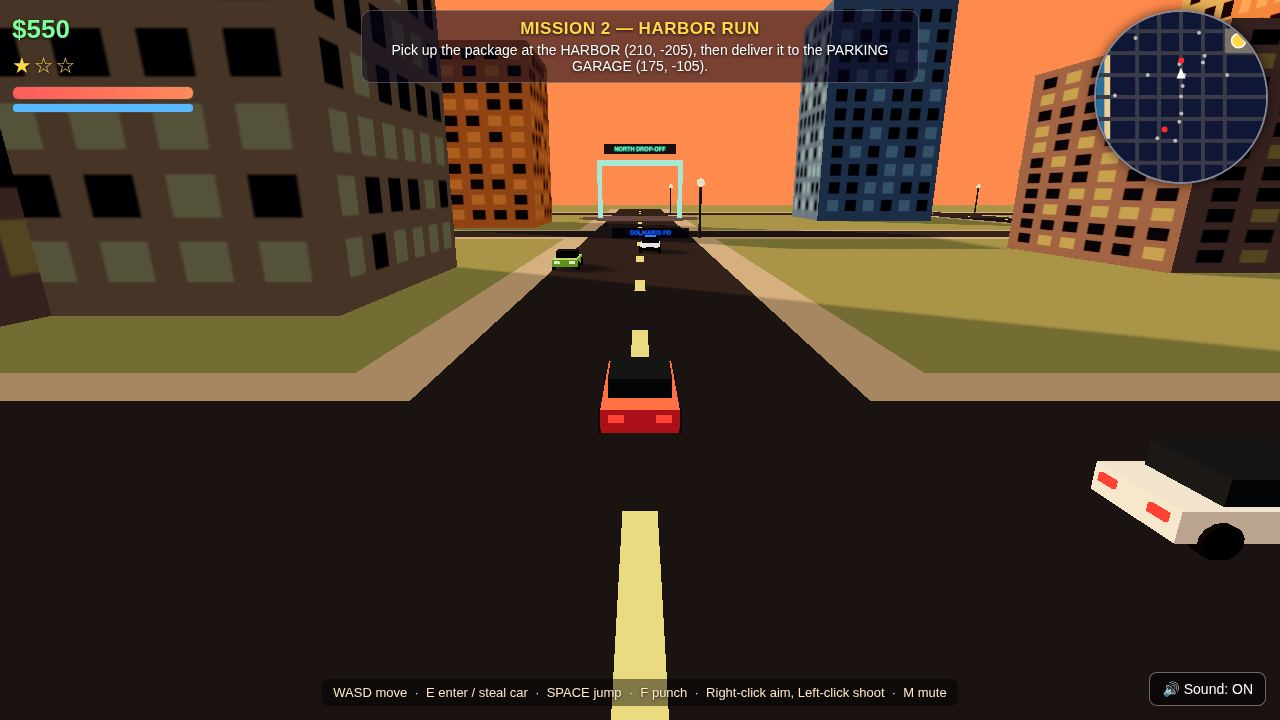
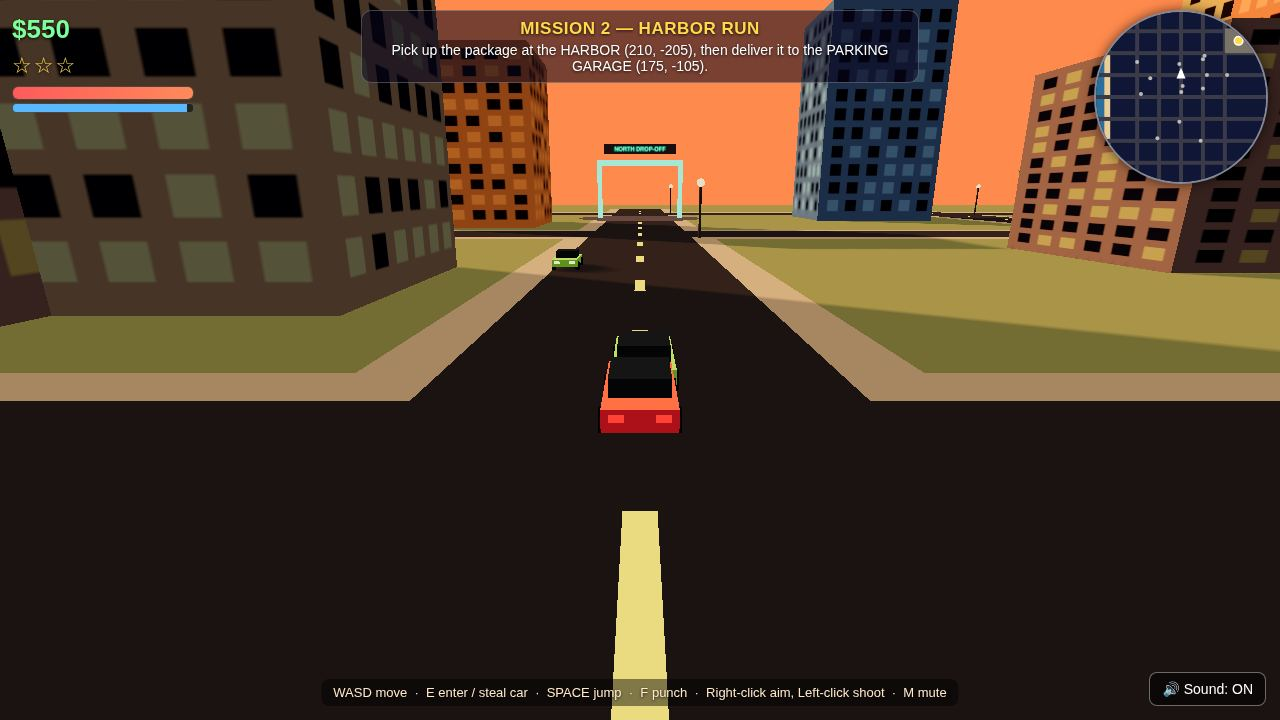
Aim camera: level torso ray + elevation to shoot heli; aimOverride hook

diff --git a/game/main.js b/game/main.js
@@ -506,10 +506,13 @@ const playerGroup = new THREE.Group();
 }
 // camera orbit state
 const cam = { yaw: Math.PI, pitch: 0.32, dist: 9, targetYaw: Math.PI };
+// aim elevation (radians, 0 = level, up to ~77 deg up) — drag vertically while aiming
+let aimElev = 0;
 
 // ---------------------------------------------------------------- input
 const keys = {};
 let mouseDownL = false, mouseDownR = false, dragging = false, lastMX = 0, lastMY = 0;
+let aimOverride = false; // set only via the __SOL.aim test hook
 window.addEventListener('keydown', (e) => {
   keys[e.code] = true;
   if (e.code === 'KeyM') AudioSys.setMuted(!AudioSys.muted);
@@ -531,7 +534,8 @@ window.addEventListener('mouseup', (e) => {
 window.addEventListener('mousemove', (e) => {
   if (!dragging) return;
   cam.yaw -= (e.clientX - lastMX) * 0.005;
-  cam.pitch = clamp(cam.pitch + (e.clientY - lastMY) * 0.004, 0.05, 1.1);
+  if (mouseDownR) aimElev = clamp(aimElev - (e.clientY - lastMY) * 0.004, -0.1, 1.35);
+  else cam.pitch = clamp(cam.pitch + (e.clientY - lastMY) * 0.004, 0.05, 1.1);
   lastMX = e.clientX; lastMY = e.clientY;
 });
 canvas.addEventListener('contextmenu', (e) => e.preventDefault());
@@ -1045,7 +1049,7 @@ function updateHeli(dt) {
   // hover above the player, slight lag + bob
   const hx = lerp(g.position.x, player.x + Math.sin(t * 0.5) * 6, dt * 0.9);
   const hz = lerp(g.position.z, player.z + Math.cos(t * 0.4) * 6, dt * 0.9);
-  g.position.set(hx, 42 + Math.sin(t * 1.3) * 1.5, hz);
+  g.position.set(hx, 30 + Math.sin(t * 1.3) * 1.5, hz);
   g.rotation.y = Math.atan2(player.x - hx, player.z - hz);
   const rotor = g.getObjectByName('rotor');
   if (rotor) rotor.rotation.y += dt * 22;
@@ -1056,7 +1060,7 @@ function updateHeli(dt) {
   const cone = g.getObjectByName('cone');
   const pool = g.userData.pool;
   const px = player.x, pz = player.z;
-  spot.target.position.set(px - hx, -42, pz - hz);
+  spot.target.position.set(px - hx, -30, pz - hz);
   spot.target.updateMatrixWorld();
   cone.lookAt(px, 0, pz);
   cone.rotateX(-Math.PI / 2);
@@ -1153,7 +1157,7 @@ function updatePlayer(dt) {
   playerGroup.position.set(player.x, player.y + Math.abs(Math.sin(player.walkPhase)) * 0.05, player.z);
   playerGroup.rotation.y = player.heading;
   // aim / shoot / melee
-  player.aiming = mouseDownR;
+  player.aiming = mouseDownR || aimOverride;
   playerGroup.getObjectByName('gun').visible = player.aiming;
   document.getElementById('crosshair').style.display = player.aiming ? 'block' : 'none';
   if (mouseDownL && player.aiming) shoot();
@@ -1206,29 +1210,34 @@ function missionTick(dt) {
 // ---------------------------------------------------------------- camera + minimap + HUD
 function updateCamera(dt) {
   const px = player.x, pz = player.z;
-  let tx, ty, tz, lookY;
+  let tx, ty, tz, lookX, lookY, lookZ;
   if (player.inCar) {
     const car = player.inCar;
     const back = 11 + Math.abs(car.speed) * 0.08;
     tx = car.x - Math.sin(car.heading) * back;
     tz = car.z - Math.cos(car.heading) * back;
     ty = 5.2 + Math.abs(car.speed) * 0.03;
-    lookY = 1.6;
+    lookX = px; lookY = 1.6; lookZ = pz;
     cam.yaw = lerp(cam.yaw, car.heading, Math.min(1, dt * 1.2));
   } else if (player.aiming) {
+    // over-shoulder aim: ray leaves level at torso height, elevation via aimElev
+    const ce = Math.cos(aimElev), se = Math.sin(aimElev);
     tx = px - Math.sin(player.heading) * 3.4;
     tz = pz - Math.cos(player.heading) * 3.4;
-    ty = 2.4; lookY = 1.5;
+    ty = 1.9;
+    lookX = tx + Math.sin(player.heading) * ce * 10;
+    lookY = ty + se * 10;
+    lookZ = tz + Math.cos(player.heading) * ce * 10;
   } else {
     tx = px - Math.sin(cam.yaw) * cam.dist;
     tz = pz - Math.cos(cam.yaw) * cam.dist;
     ty = 4 + cam.pitch * 7;
-    lookY = 1.6;
+    lookX = px; lookY = 1.6; lookZ = pz;
   }
   camera.position.x = lerp(camera.position.x, tx, Math.min(1, dt * 7));
   camera.position.y = lerp(camera.position.y, ty, Math.min(1, dt * 7));
   camera.position.z = lerp(camera.position.z, tz, Math.min(1, dt * 7));
-  camera.lookAt(px, lookY, pz);
+  camera.lookAt(lookX, lookY, lookZ);
 }
 const mm = document.getElementById('minimap').getContext('2d');
 function drawMinimap() {
@@ -1390,10 +1399,11 @@ window.__SOL = {
   setCash(n) { game.cash = n; document.getElementById('cash').textContent = '$' + n; },
   enterNearestCar() { const c = nearestCar(30); if (c) enterCar(c); return !!player.inCar; },
   exitCar() { exitCar(); },
-  aim(v) { player.aiming = !!v; document.getElementById('crosshair').style.display = v ? 'block' : 'none'; },
+  aim(v) { aimOverride = !!v; player.aiming = !!v; document.getElementById('crosshair').style.display = v ? 'block' : 'none'; },
   shoot() { shoot(); },
   melee() { melee(); },
   pressKey(code, down) { keys[code] = !!down; },
+  setAimElev(v) { aimElev = clamp(v, -0.1, 1.35); },
   face(x, z) { player.heading = Math.atan2(x - player.x, z - player.z); cam.yaw = player.heading; },
   damageHeli(n) { damageHeli(n); },
   guardPos(i) { const g = game.guards[i]; return g ? { x: g.x, z: g.z, alive: g.alive } : null; },
